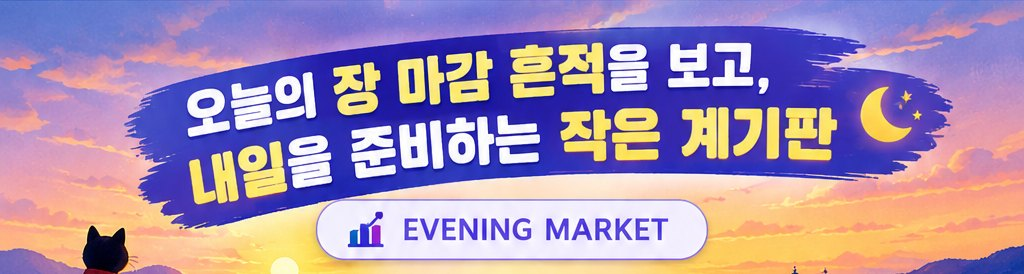
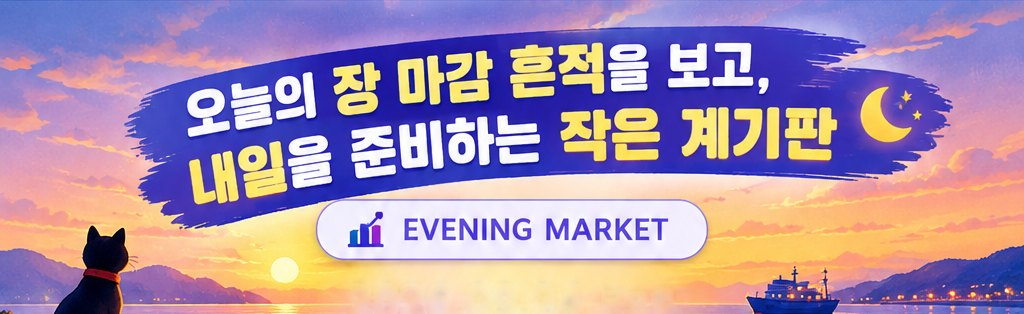
Add files via upload

diff --git a/index.html b/index.html
@@ -77,10 +77,10 @@
 
   /* 2열 카드 */
   .grid{display:grid;grid-template-columns:1fr 1fr;gap:10px}
-  .mini{background:var(--card);border-radius:14px;height:148px;overflow:hidden;padding:2px 2px 0;
+  .mini{background:var(--card);border-radius:14px;height:98px;overflow:hidden;padding:2px 2px 0;
         border:1px solid #eef2f9;box-shadow:0 2px 4px rgba(31,63,122,.06),0 8px 18px -6px rgba(31,63,122,.18)}
-  .mini .tag{display:block;font-size:10.5px;color:var(--faint);padding:6px 10px 0}
-  .mini .tv{height:124px}
+  .mini .tag{display:block;font-size:10.5px;color:var(--faint);padding:5px 10px 0;white-space:nowrap;overflow:hidden;text-overflow:ellipsis}
+  .mini .tv{height:150px;zoom:.5}  /* 위젯 50% 축소 */
   .wide{grid-column:1 / -1}
   h2{font-size:15px;font-weight:700;color:var(--text);margin:0 0 10px 4px}
 
